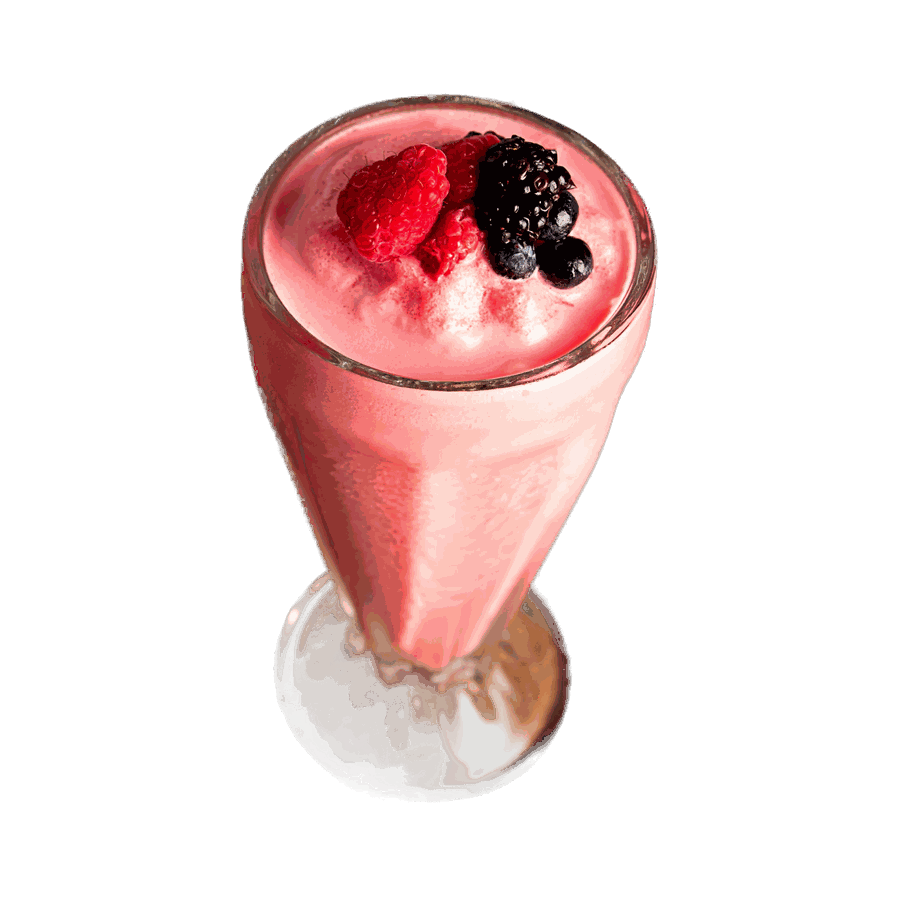
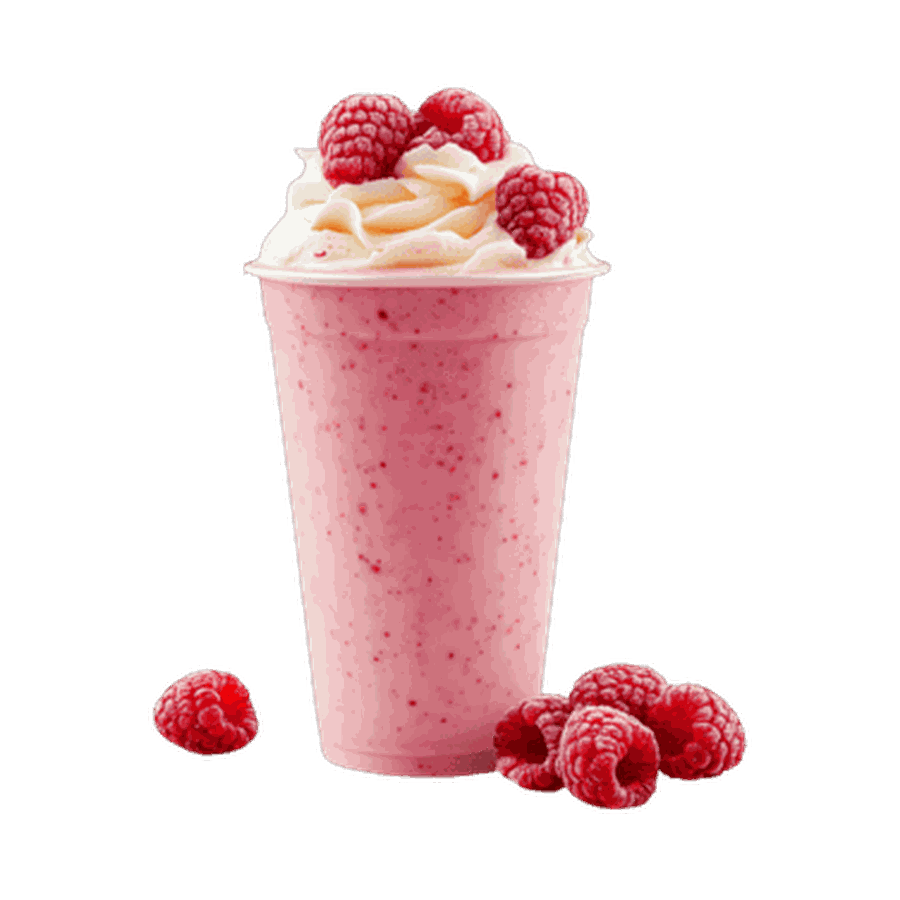
Add remaining menu photos, restructure fries pricing, remove empty badge
- Photos for Soğuk Meşrubatlar, Doğal Soğuk İçecekler, Tost Çeşitleri,
  Tatlılar, Çerezler, and Fındık (Çerezler)
- Iced Latte and Frambuazlı milkshake photos replaced with better shots
- Patates Kızartması now uses a single shared photo with three
  size/price pills (Küçük/Orta/Büyük) instead of repeating the image
- Removed the empty "—" price badge on Vanilya (Dondurma)
- Cleaned up raw/unused source images from Pictures/

Changed region(s): [[0.1556, 0.0933, 0.84, 0.9022]]

diff --git a/index.html b/index.html
@@ -144,7 +144,7 @@
       <div class="product-grid">
         <figure class="product">
           <div class="product-photo">
-            <!-- Görsel eklemek için buraya: <img class="product-img-fill" src="görsel.jpg" alt="Sade Soda"> -->
+            <img class="product-img-fill" src="Pictures/sade-soda.png" alt="Sade Soda" loading="lazy">
             <span class="ph" aria-hidden="true">☕</span>
             <span class="price-badge">40 ₺</span>
           </div>
@@ -152,7 +152,7 @@
         </figure>
         <figure class="product">
           <div class="product-photo">
-            <!-- Görsel eklemek için buraya: <img class="product-img-fill" src="görsel.jpg" alt="Meyveli Soda"> -->
+            <img class="product-img-fill" src="Pictures/meyveli-soda.png" alt="Meyveli Soda" loading="lazy">
             <span class="ph" aria-hidden="true">☕</span>
             <span class="price-badge">60 ₺</span>
           </div>
@@ -160,7 +160,7 @@
         </figure>
         <figure class="product">
           <div class="product-photo">
-            <!-- Görsel eklemek için buraya: <img class="product-img-fill" src="görsel.jpg" alt="Meyve Suyu (Küçük)"> -->
+            <img class="product-img-fill" src="Pictures/meyve-suyu-kucuk.png" alt="Meyve Suyu (Küçük)" loading="lazy">
             <span class="ph" aria-hidden="true">☕</span>
             <span class="price-badge">30 ₺</span>
           </div>
@@ -168,7 +168,7 @@
         </figure>
         <figure class="product">
           <div class="product-photo">
-            <!-- Görsel eklemek için buraya: <img class="product-img-fill" src="görsel.jpg" alt="Soda Limon"> -->
+            <img class="product-img-fill" src="Pictures/soda-limon.png" alt="Soda Limon" loading="lazy">
             <span class="ph" aria-hidden="true">☕</span>
             <span class="price-badge">60 ₺</span>
           </div>
@@ -176,7 +176,7 @@
         </figure>
         <figure class="product">
           <div class="product-photo">
-            <!-- Görsel eklemek için buraya: <img class="product-img-fill" src="görsel.jpg" alt="Su"> -->
+            <img class="product-img-fill" src="Pictures/su.png" alt="Su" loading="lazy">
             <span class="ph" aria-hidden="true">☕</span>
             <span class="price-badge">25 ₺</span>
           </div>
@@ -189,9 +189,7 @@
       <div class="product-grid">
         <figure class="product">
           <div class="product-photo">
-            <!-- Görsel eklemek için buraya: <img class="product-img-fill" src="görsel.jpg" alt="Vanilya"> -->
             <span class="ph" aria-hidden="true">☕</span>
-            <span class="price-badge">—</span>
           </div>
           <figcaption class="product-name">Vanilya</figcaption>
         </figure>
@@ -202,7 +200,7 @@
       <div class="product-grid">
         <figure class="product">
           <div class="product-photo">
-            <!-- Görsel eklemek için buraya: <img class="product-img-fill" src="görsel.jpg" alt="Limonata"> -->
+            <img class="product-img-fill" src="Pictures/limonata.png" alt="Limonata" loading="lazy">
             <span class="ph" aria-hidden="true">☕</span>
             <span class="price-badge">150 ₺</span>
           </div>
@@ -210,7 +208,7 @@
         </figure>
         <figure class="product">
           <div class="product-photo">
-            <!-- Görsel eklemek için buraya: <img class="product-img-fill" src="görsel.jpg" alt="Karadut"> -->
+            <img class="product-img-fill" src="Pictures/karadut.png" alt="Karadut" loading="lazy">
             <span class="ph" aria-hidden="true">☕</span>
             <span class="price-badge">150 ₺</span>
           </div>
@@ -218,7 +216,7 @@
         </figure>
         <figure class="product">
           <div class="product-photo">
-            <!-- Görsel eklemek için buraya: <img class="product-img-fill" src="görsel.jpg" alt="Büyük Ayran"> -->
+            <img class="product-img-fill" src="Pictures/buyuk-ayran.png" alt="Büyük Ayran" loading="lazy">
             <span class="ph" aria-hidden="true">☕</span>
             <span class="price-badge">100 ₺</span>
           </div>
@@ -226,7 +224,7 @@
         </figure>
         <figure class="product">
           <div class="product-photo">
-            <!-- Görsel eklemek için buraya: <img class="product-img-fill" src="görsel.jpg" alt="Sıkma Portakal Suyu"> -->
+            <img class="product-img-fill" src="Pictures/sikma-portakal-suyu.png" alt="Sıkma Portakal Suyu" loading="lazy">
             <span class="ph" aria-hidden="true">☕</span>
             <span class="price-badge">200 ₺</span>
           </div>
@@ -234,7 +232,7 @@
         </figure>
         <figure class="product">
           <div class="product-photo">
-            <!-- Görsel eklemek için buraya: <img class="product-img-fill" src="görsel.jpg" alt="Sıkma Nar Suyu"> -->
+            <img class="product-img-fill" src="Pictures/sikma-nar-suyu.png" alt="Sıkma Nar Suyu" loading="lazy">
             <span class="ph" aria-hidden="true">☕</span>
             <span class="price-badge">200 ₺</span>
           </div>
@@ -252,7 +250,7 @@
       <div class="product-grid">
         <figure class="product">
           <div class="product-photo">
-            <!-- Görsel eklemek için buraya: <img class="product-img-fill" src="görsel.jpg" alt="Sucuklu Tost"> -->
+            <img class="product-img-fill" src="Pictures/sucuklu-tost.png" alt="Sucuklu Tost" loading="lazy">
             <span class="ph" aria-hidden="true">☕</span>
             <span class="price-badge">200 ₺</span>
           </div>
@@ -260,7 +258,7 @@
         </figure>
         <figure class="product">
           <div class="product-photo">
-            <!-- Görsel eklemek için buraya: <img class="product-img-fill" src="görsel.jpg" alt="Kaşarlı Tost"> -->
+            <img class="product-img-fill" src="Pictures/kasarli-tost.png" alt="Kaşarlı Tost" loading="lazy">
             <span class="ph" aria-hidden="true">☕</span>
             <span class="price-badge">200 ₺</span>
           </div>
@@ -268,7 +266,7 @@
         </figure>
         <figure class="product">
           <div class="product-photo">
-            <!-- Görsel eklemek için buraya: <img class="product-img-fill" src="görsel.jpg" alt="Karışık Tost"> -->
+            <img class="product-img-fill" src="Pictures/karisik-tost.png" alt="Karışık Tost" loading="lazy">
             <span class="ph" aria-hidden="true">☕</span>
             <span class="price-badge">200 ₺</span>
           </div>
@@ -281,7 +279,7 @@
       <div class="product-grid">
         <figure class="product">
           <div class="product-photo">
-            <!-- Görsel eklemek için buraya: <img class="product-img-fill" src="görsel.jpg" alt="Magnolya"> -->
+            <img class="product-img-fill" src="Pictures/magnolya.png" alt="Magnolya" loading="lazy">
             <span class="ph" aria-hidden="true">☕</span>
             <span class="price-badge">200 ₺</span>
           </div>
@@ -289,7 +287,7 @@
         </figure>
         <figure class="product">
           <div class="product-photo">
-            <!-- Görsel eklemek için buraya: <img class="product-img-fill" src="görsel.jpg" alt="Hamsiköy Sütlaç"> -->
+            <img class="product-img-fill" src="Pictures/hamsikoy-sutlac.png" alt="Hamsiköy Sütlaç" loading="lazy">
             <span class="ph" aria-hidden="true">☕</span>
             <span class="price-badge">150 ₺</span>
           </div>
@@ -302,7 +300,7 @@
       <div class="product-grid">
         <figure class="product">
           <div class="product-photo">
-            <!-- Görsel eklemek için buraya: <img class="product-img-fill" src="görsel.jpg" alt="Fındık"> -->
+            <img class="product-img-fill" src="Pictures/findik.png" alt="Fındık" loading="lazy">
             <span class="ph" aria-hidden="true">☕</span>
             <span class="price-badge">100 ₺</span>
           </div>
@@ -310,7 +308,7 @@
         </figure>
         <figure class="product">
           <div class="product-photo">
-            <!-- Görsel eklemek için buraya: <img class="product-img-fill" src="görsel.jpg" alt="Kurabiye Çeşitleri"> -->
+            <img class="product-img-fill" src="Pictures/kurabiye.png" alt="Kurabiye Çeşitleri" loading="lazy">
             <span class="ph" aria-hidden="true">☕</span>
             <span class="price-badge">120 ₺</span>
           </div>
@@ -318,7 +316,7 @@
         </figure>
         <figure class="product">
           <div class="product-photo">
-            <!-- Görsel eklemek için buraya: <img class="product-img-fill" src="görsel.jpg" alt="Çekirdek"> -->
+            <img class="product-img-fill" src="Pictures/cekirdek.png" alt="Çekirdek" loading="lazy">
             <span class="ph" aria-hidden="true">☕</span>
             <span class="price-badge">120 ₺</span>
           </div>
@@ -326,7 +324,7 @@
         </figure>
         <figure class="product">
           <div class="product-photo">
-            <!-- Görsel eklemek için buraya: <img class="product-img-fill" src="görsel.jpg" alt="Tirebolu Kurusu"> -->
+            <img class="product-img-fill" src="Pictures/tirebolu-kurusu.png" alt="Tirebolu Kurusu" loading="lazy">
             <span class="ph" aria-hidden="true">☕</span>
             <span class="price-badge">250 ₺</span>
           </div>
@@ -336,30 +334,18 @@
     </div>
     <div class="subcat">
       <h3 class="subcat-title">Patates Kızartması</h3>
-      <div class="product-grid">
+      <div class="product-grid single-item">
         <figure class="product">
           <div class="product-photo">
-            <!-- Görsel eklemek için buraya: <img class="product-img-fill" src="görsel.jpg" alt="Küçük Boy"> -->
+            <img class="product-img-fill" src="Pictures/patates-kizartmasi.png" alt="Patates Kızartması" loading="lazy">
             <span class="ph" aria-hidden="true">☕</span>
-            <span class="price-badge">100 ₺</span>
           </div>
-          <figcaption class="product-name">Küçük Boy</figcaption>
-        </figure>
-        <figure class="product">
-          <div class="product-photo">
-            <!-- Görsel eklemek için buraya: <img class="product-img-fill" src="görsel.jpg" alt="Orta Boy"> -->
-            <span class="ph" aria-hidden="true">☕</span>
-            <span class="price-badge">150 ₺</span>
+          <figcaption class="product-name">Patates Kızartması</figcaption>
+          <div class="size-options">
+            <span class="size-pill">Küçük Boy <b>100 ₺</b></span>
+            <span class="size-pill">Orta Boy <b>150 ₺</b></span>
+            <span class="size-pill">Büyük Boy <b>250 ₺</b></span>
           </div>
-          <figcaption class="product-name">Orta Boy</figcaption>
-        </figure>
-        <figure class="product">
-          <div class="product-photo">
-            <!-- Görsel eklemek için buraya: <img class="product-img-fill" src="görsel.jpg" alt="Büyük Boy"> -->
-            <span class="ph" aria-hidden="true">☕</span>
-            <span class="price-badge">250 ₺</span>
-          </div>
-          <figcaption class="product-name">Büyük Boy</figcaption>
         </figure>
       </div>
     </div>

diff --git a/style.css b/style.css
@@ -301,6 +301,33 @@ a { color: inherit; text-decoration: none; }
   gap: 2rem 1.4rem;
   justify-items: center;
 }
+.product-grid.single-item {
+  display: flex;
+  justify-content: center;
+}
+.size-options {
+  display: flex;
+  flex-wrap: wrap;
+  justify-content: center;
+  gap: 0.5rem;
+  margin-top: 0.7rem;
+}
+.size-pill {
+  display: flex;
+  align-items: center;
+  gap: 0.35rem;
+  background: var(--paper);
+  border: 1px solid var(--cream-2);
+  padding: 0.35rem 0.75rem;
+  border-radius: 999px;
+  font-size: 0.78rem;
+  color: var(--text-light);
+  font-weight: 500;
+}
+.size-pill b {
+  color: var(--copper-deep);
+  font-weight: 700;
+}
 .product {
   width: 100%;
   max-width: 200px;